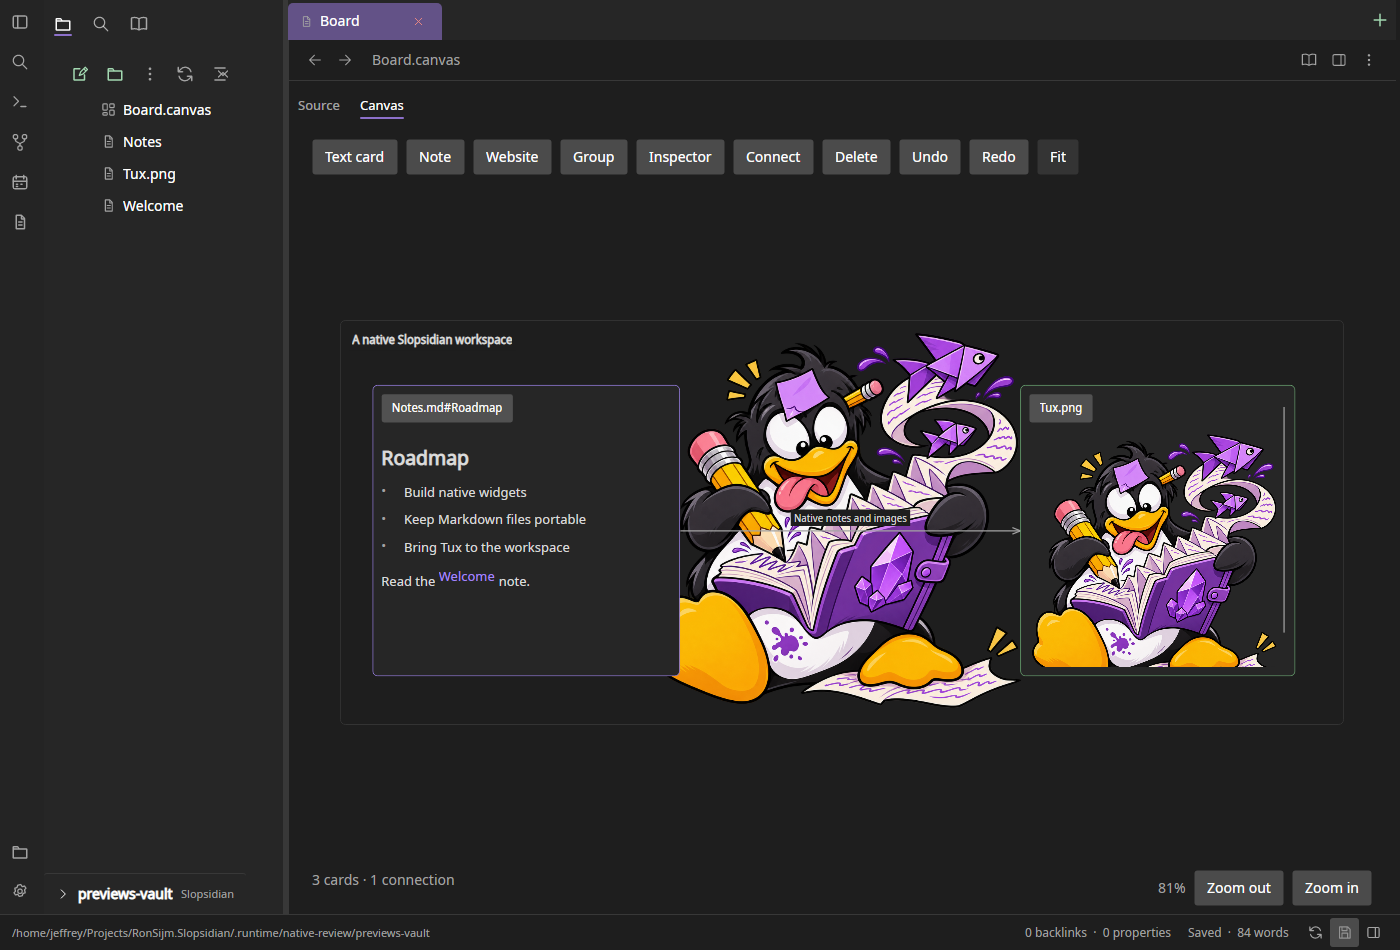
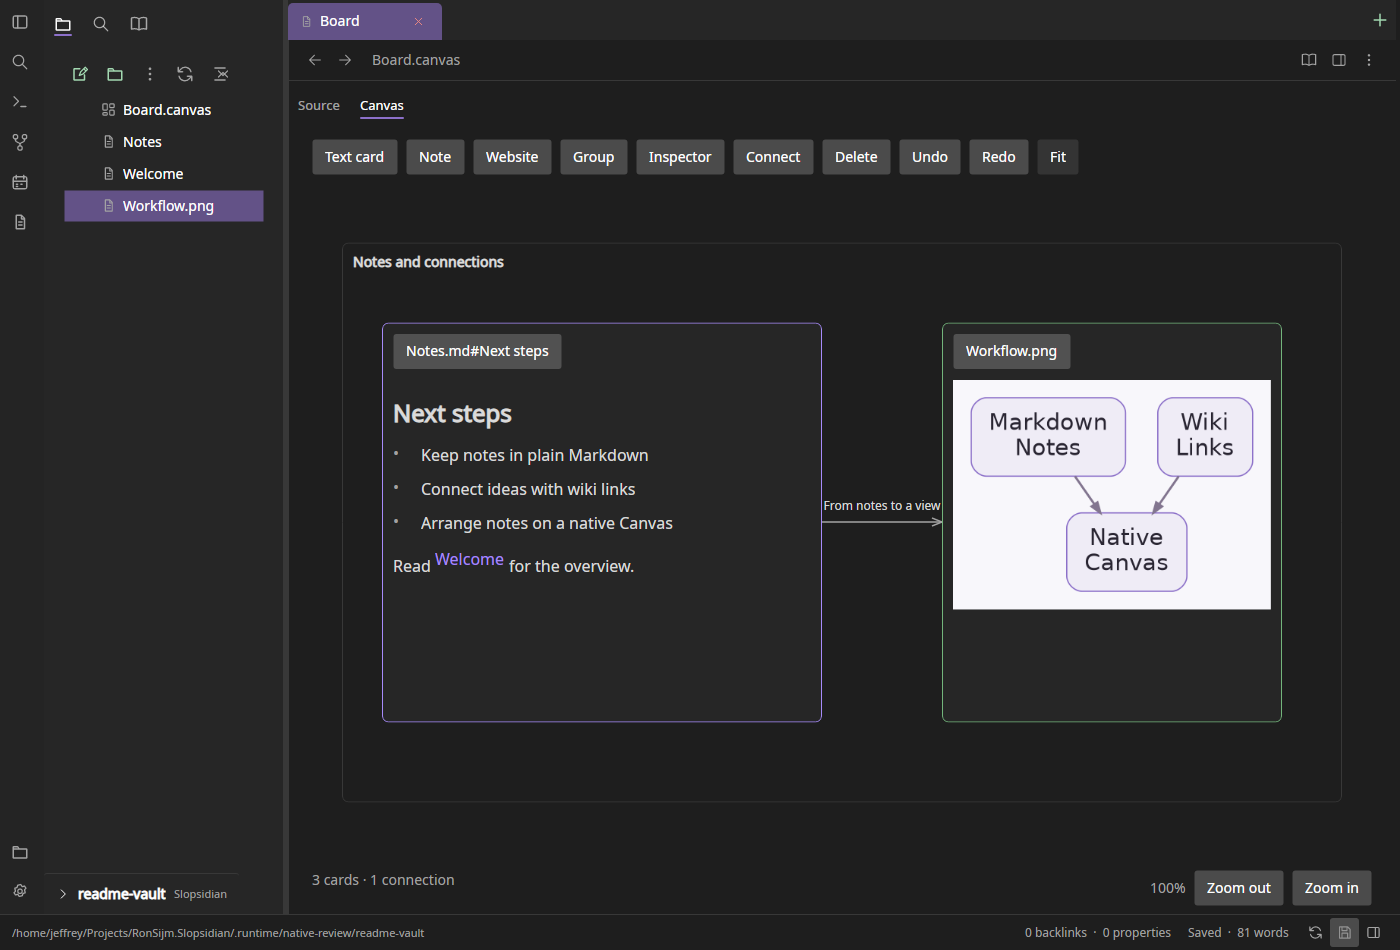
docs(readme): show notes and diagrams without repeating the mascot

diff --git a/Docs/Engineering/NativeLinux/2026-11-16/PREVIEW-2.md b/Docs/Engineering/NativeLinux/2026-11-16/PREVIEW-2.md
@@ -1,7 +1,8 @@
 # Slopsidian Linux 0.2.0-preview.2 checkpoint
 
-Date: 2026-11-16. This completes the current preview checkpoint. Full upstream
-feature and community-plugin parity remains unfinished.
+Date: 2026-11-16. This records the current preview and presentation checkpoint.
+Migration continues; full upstream feature and community-plugin parity remains
+unfinished.
 
 The independent Linux fork retains Ron Sijm's attribution and shared history.
 The original upstream PR is closed without merging. The Linux fork is maintained
@@ -21,8 +22,9 @@ in `README.md`, `Docs/Features/NATIVE-LINUX.md` and `Docs/Project/NATIVE-PORT.md
 
 This is an extension of the existing Slopsidian workspace. The ribbon, file tree,
 document tabs, central workspace, side panels and status bar retain their native
-arrangement. Neutral dark/light surfaces, violet accents, source icon geometry
-and the revised Tux notebook artwork remain the visual authority.
+arrangement. Neutral dark/light surfaces, violet accents and source icon geometry
+remain the visual authority. The revised Tux notebook artwork remains the app
+icon and the single README header logo.
 
 Evidence is in `src/RonSijm.Slopsidian.Linux/App.axaml`, `MainWindow.axaml` in that
 directory, `Assets/icons.svg`, and `Assets/tux-notebook.png`. The asset README
@@ -30,6 +32,12 @@ records the inherited icon sprite and license; `Assets/tux-notebook.provenance.j
 records the artwork generation and localized foot correction. The captures show
 tonal surface separation, compact native controls, the inherited typography and
 the narrow Canvas toolbar/flyout adaptation.
+
+Following the user's presentation correction, the five content captures use
+ordinary synthetic notes and an authored Graphviz workflow diagram, with no Tux
+in the demonstration content or current screenshots. About is unchanged. README
+embeds the single header logo and dark/light Canvas captures; the separate image
+window embed has been removed. No application code or logo artwork changed.
 
 No `PRODUCT.md`, `DESIGN.md`, persisted direction contract, formal quality bar or
 visual comp exists. This report records the incumbent implementation; it creates
@@ -43,11 +51,11 @@ All six review captures were inspected. The copies in
 
 | Review file | Repository screenshot | Demonstrated state |
 | --- | --- | --- |
-| `desktop-dark.png` | `canvas-previews-dark.png` | 1400 × 950, native workspace, note section, raster card and group background |
-| `desktop-light.png` | `canvas-previews-light.png` | 1400 × 950, light theme, sidebar and fitted Canvas |
+| `desktop-dark.png` | `canvas-previews-dark.png` | 1400 × 950, native workspace, note section and workflow diagram raster card |
+| `desktop-light.png` | `canvas-previews-light.png` | 1400 × 950, light theme, sidebar, note section and fitted diagram Canvas |
 | `narrow.png` | `canvas-previews-narrow.png` | 900 × 800, wrapped toolbar and fitted board |
 | `narrow-inspector.png` | `canvas-previews-narrow-inspector.png` | 900 × 800, native selection inspector flyout |
-| `image-preview.png` | `image-preview.png` | 1000 × 800, read-only raster image window |
+| `image-preview.png` | `image-preview.png` | 1000 × 800, read-only workflow diagram raster window |
 | `about.png` | `about-linux.png` | 900 × 700, Linux version, fork attribution and explicit port status |
 
 These are real application captures from an isolated Linux Xvfb display with
@@ -56,17 +64,18 @@ were retained. They establish the shown preview states, not full workflow parity
 
 ## Fresh finish review
 
-The independent reviewer returned **ship** for this preview checkpoint:
+The fresh independent reviewer returned **ship** after the presentation correction:
 
-- **Persistence:** pass for the preview checkpoint, with missing formal product
-  documentation disclosed.
-- **Fidelity:** all six captures valid; native workspace, typography, materials,
-  ground, note sections, images and About match the inherited direction. Narrow
-  toolbar wrapping, inspector flyout and Fit behavior preserve that direction.
-- **Ceiling:** reached for the inherited preview scope.
-- **Material fixes:** none within the reviewed preview; full parity is unclaimed.
-- **Keep:** native workspace, neutral themes, violet accents, revised Tux artwork
-  and explicit limitations.
+- **Persistence:** pass; all six captures valid and README screenshot bytes match
+  the review evidence.
+- **Fidelity:** single header logo, no Tux in current screenshots/demo content,
+  ordinary notes and authored workflow diagram. Inherited native typography,
+  materials and neutral/violet palette remain intact. Desktop, narrow, inspector
+  flyout, image window and About match; narrow toolbar wrapping adapts the layout.
+- **Ceiling:** reached for the scoped presentation correction.
+- **Material fixes:** none within the reviewed scope; full parity is unclaimed.
+- **Keep:** single header mascot, ordinary synthetic notes, workflow diagram and
+  explicit preview limitations.
 
 ## Local verification
 
@@ -77,14 +86,25 @@ The recorded local checks passed:
 | `.runtime/native-review/final-lint.log` | CSharpier 1.4.0 checked 66 files; `dotnet format style`, recommended .NET analyzers and SonarAnalyzer C# gate; solution Release build with warnings as errors, zero warnings/errors |
 | `.runtime/native-review/final-tests.log` | 176 tests passed, zero failures and zero skips |
 | `.runtime/native-review/final-package-clean.log` | Self-contained `linux-x64` publish, archive and Debian package completed |
-| `.runtime/native-review/packaged-smoke.png`, `archive-ui.log` | Extracted x64 archive launcher opened the synthetic Canvas on a private Xvfb display; note section, raster card and Tux group background rendered; application log empty |
+| `.runtime/native-review/packaged-smoke.png`, `archive-ui.log` | Initial extracted x64 archive launcher smoke opened a synthetic Canvas on a private Xvfb display; note/raster previews rendered, application log empty; fixture predates the presentation correction |
 | `.runtime/native-linux/linux-x64/out/SHA256SUMS-linux-x64.txt` | Both package checksums independently rechecked successfully |
 | Packaged executable `--version` | Independently rechecked: `0.2.0-preview.2` |
+| `.runtime/native-review/final-dependency-audit.log` | NuGet vulnerability audit of all three projects, including transitive packages, reported no vulnerable packages against the current sources |
 
 The lint script and `Directory.Build.props` confirm the recorded gate's scope.
 Analyzer policy targets the native project; inherited Core code is not broadly
 reformatted. Tests and successful builds complement native acceptance; they do
 not establish complete parity.
+
+## GitHub verification
+
+The x64 and arm64 build/package jobs passed on `main` at immutable commit
+`7fe3c42d132bbbe3fae4f1e42b31a793040bfc92`:
+https://github.com/jericonclusion/Slopsidian.Linux/actions/runs/43907626165
+
+This CI result covers that commit. The subsequent README, capture and report
+correction was not yet pushed when recorded here. Local package/GUI evidence is
+x64; arm64 verification comes from the successful GitHub job.
 
 ## Limits and follow-up
 
@@ -93,14 +113,14 @@ audio, complete module lifecycles, hotkey editing, bookmark/workspace
 compatibility and community-plugin support remain open in the native roadmap.
 Publish and Sync are unavailable in the upstream shared runtime.
 
-The configured GitHub workflow covers x64 and arm64, but its new main-branch run
-has not yet been verified at this checkpoint. Only x64 packages have local
-evidence here. Tag-triggered draft releases are configured; no tag or public
-release has been created. Packages are unsigned and have no automatic updater.
+Tag-triggered draft releases are configured; no tag or public release has been
+created. Packages are unsigned and have no automatic updater. This checkpoint
+does not complete the migration; remaining workflows continue after it.
 
 Earlier screenshots retain historical window titles and versions that predate
 the independent Linux branding. They remain historical evidence. The roadmap
 still lists broad fresh-capture, lint, packaging and independent-review acceptance
 work; this report supplies the preview-specific evidence without closing that
-full-parity requirement. No new visual-system drift requiring a preview fix was
-identified, and no pre-existing documentation or visual drift was repaired here.
+full-parity requirement. Repeated mascot use was corrected in the presentation;
+the inherited native visual system is retained. Historical documentation and
+earlier captures were not otherwise revised by this report.

diff --git a/Docs/Engineering/NativeLinux/2026-11-16/Screenshots/README.md b/Docs/Engineering/NativeLinux/2026-11-16/Screenshots/README.md
@@ -4,15 +4,17 @@
 
 Real Avalonia/.NET 10 application captures on Linux, using an isolated Xvfb
 display and synthetic demonstration notes. The active personal desktop was not
-used. The Tux PNG is the actual application artwork, including the foot revision.
+used. Tux remains the application icon and the single README logo. The current
+Canvas/image captures use an authored synthetic workflow diagram rather than
+repeating the mascot.
 
 | Capture | State |
 | --- | --- |
-| `canvas-previews-dark.png` | 1400 × 950, dark Canvas, heading preview, raster card and group background |
+| `canvas-previews-dark.png` | 1400 × 950, dark Canvas, heading preview and diagram raster card |
 | `canvas-previews-light.png` | 1400 × 950, light Canvas, right sidebar and Fit |
 | `canvas-previews-narrow.png` | 900 × 800, wrapped toolbar and fitted board |
 | `canvas-previews-narrow-inspector.png` | 900 × 800, native inspector flyout |
-| `image-preview.png` | 1000 × 800, native read-only raster preview window |
+| `image-preview.png` | 1000 × 800, native read-only diagram raster preview window |
 | `about-linux.png` | 900 × 700, independent fork attribution and client version |
 
 The Canvas source and image bytes were retained throughout the capture session.

diff --git a/README.md b/README.md
@@ -87,7 +87,6 @@ Actual Linux application captures with synthetic demonstration notes:
 
 ![Light Canvas preview](Docs/Engineering/NativeLinux/2026-11-16/Screenshots/canvas-previews-light.png)
 
-![Native image preview](Docs/Engineering/NativeLinux/2026-11-16/Screenshots/image-preview.png)
 
 ## Upstream and credits
 
